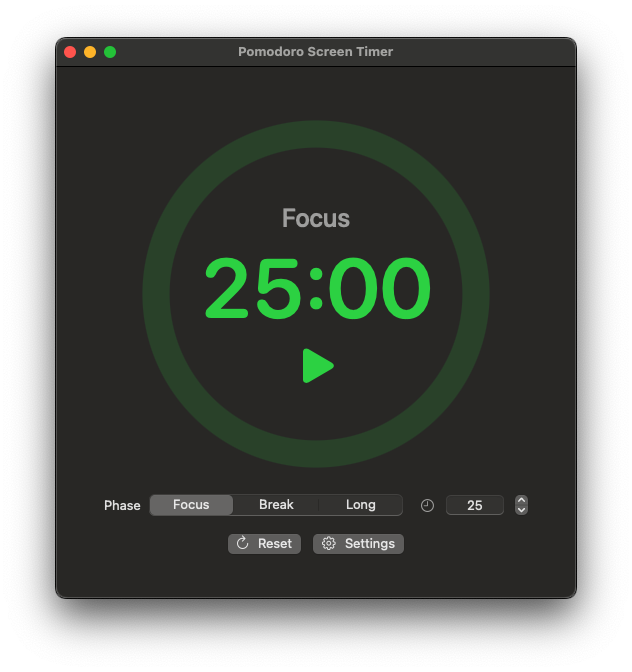
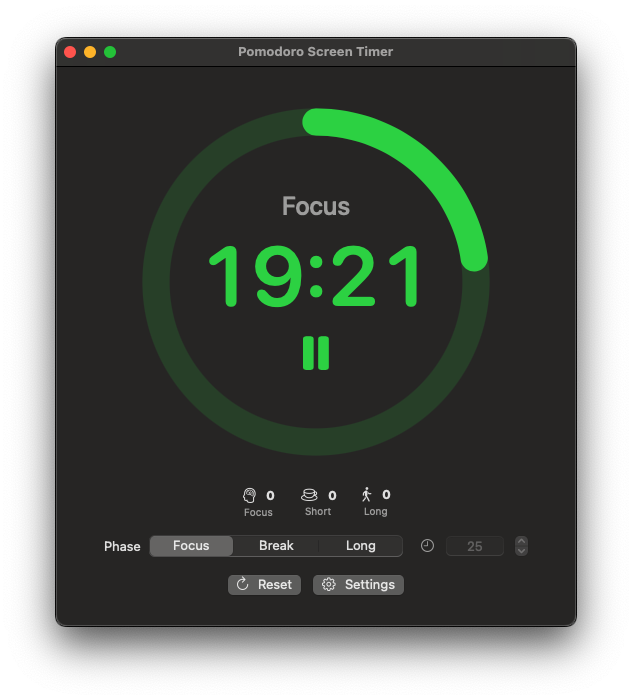
update readme with voice alert feature and screenshots
- Updated readme with new features
- Added debug flag to build script, print out app location
- Added updated screenshots

diff --git a/README.md b/README.md
@@ -7,7 +7,7 @@
 <p align="center">
   ⏳ A beautiful, native macOS Pomodoro timer with full-screen visual disruptions
 </p>
-The main feature of this pomodoro timer is that it creates a **visual disruption** for those who have become deaf to the monotony of alarms. The entire screen of all connected monitors will display an overlay to disrupt your current work.
+The main feature of this pomodoro timer is that it creates a **visual disruption** for those who have become deaf to the monotony of alarms. All monitors will display an overlay to disrupt your current work.
 
 ## Table of Contents
 - [Screenshots](#screenshots)
@@ -22,9 +22,12 @@ The main feature of this pomodoro timer is that it creates a **visual disruption
 
 ## Screenshots
 <p align="center">
-  <img src="./docs/screenshots/main_view.png" alt="Pomodoro Screen Timer Main View"/>
-  <img src="./docs/screenshots/menu_bar_menu.png" alt="Pomodoro Screen Timer Menu Bar"/>
-  <img src="./docs/screenshots/settings.png" alt="Pomodoro Screen Timer Settings"/>
+  <img src="./docs/screenshots/main_view.png" alt="Pomodoro Screen Timer Main View"/><br/>
+  <img src="./docs/screenshots/menu_bar_menu.png" alt="Pomodoro Screen Timer Menu Bar"/><br/>
+  <img src="./docs/screenshots/settings_timer.png" alt="Pomodoro Screen Timer Timer Settings"/><br/>
+  <img src="./docs/screenshots/settings_overlay.png" alt="Pomodoro Screen Timer Overlay Settings"/><br/>
+  <img src="./docs/screenshots/settings_sound.png" alt="Pomodoro Screen Timer Sound Settings"/><br/>
+  <img src="./docs/screenshots/overlay_focus.png" alt="Pomodoro Screen Timer Focus"/>
 </p>
 
 
@@ -42,17 +45,20 @@ The main feature of this pomodoro timer is that it creates a **visual disruption
 - **Visual Progress Ring**: Modern circular progress indicator with phase-specific colors.
 - **Auto-Cycling**: Automatically transitions between focus and break sessions.
 - **Manual Control**: Option to manually start each session.
+- **Cycle Count Tracking**: Displays the number of focus and break sessions since the app has been up.
 
 ### Visual & Audio
 - **Multi-monitor Full-Screen Overlays**: Customizable break and focus overlays with images to visually disrupt your current work to signal a transition to a break or focus session.
 - **Phase-Specific Colors**: 🟢 Green for focus, 🔴 Red for breaks.
 - **Custom Sounds**: Set different alarm sounds for focus and break transitions.
+- **Voice Alert**: Voice alerts via speaking the message on the overlay for focus and break transitions. (optional)
 
 ### Customization
 - **Flexible Timing**: Adjustable focus (default 25min), short break (5min), and long break (15min) durations.
 - **Long Break Cycles**: Configure how many focus sessions before a long break.
 - **Overlay Customization**: Custom images, colors, and display durations for notification overlays.
 - **Sound Options**: Choose from system sounds or custom audio files.
+- **Voice Options**: Choose from system voices to read out the message on the overlay. 
 - **Startup Options**: Launch at login.
 
 ### Developer Features
@@ -68,7 +74,7 @@ The main feature of this pomodoro timer is that it creates a **visual disruption
 
 ## Installation
 
-### Option 1: Build from Source
+### Build from Source
 
 1. **Clone the repository**:
    ```bash
@@ -82,10 +88,23 @@ The main feature of this pomodoro timer is that it creates a **visual disruption
    ./build_and_run.sh
    ```
 
-3. **Or build manually with Xcode**:
+    **Or build manually with Xcode**:
    - Open `Pomodoro Screen Timer.xcodeproj` in Xcode.
    - Select the "Pomodoro Screen Timer" scheme.
+   - Selet `My Mac` as the target device.
    - Build and run (⌘R).
+
+3. **Copy built app to `/Applications` folder**
+   1. Go into the build folder 
+
+        **Via build script**
+        - `<project root>/build/Build`.
+
+        **Via Xcode**
+       - Go into the build folder via `Product -> Show Build Folder in Finder` in Xcode.
+
+   2. Copy the `"Products/Debug/Pomodoro Screen Timer.app"` or `"Products/Release/Pomodoro Screen Timer.app"` to `/Applications`.
+
 
 ### Build Script Options
 
@@ -101,6 +120,7 @@ The included `build_and_run.sh` script provides several convenient options:
 ```
 
 ## Usage
+
 
 ### Getting Started
 
@@ -136,31 +156,58 @@ The menu bar provides quick access to:
 ## Architecture
 
 The app follows a clean, modular architecture:
-
 ```
-Models/
-├── Phase.swift          # Phase enum with colors and properties
-├── TimerModel.swift     # Core timer logic and state management
-├── SettingsStore.swift  # User preferences and configuration
-└── AlarmPlayer.swift    # Audio playback for notifications
+Core
+├── AlarmHandle.swift
+├── OverlayConfig.swift
+├── OverlayController.swift
+├── Phase.swift
+├── SettingsStore.swift
+└── TimerModel.swift
 
-Views/
-├── MainView.swift       # Main timer interface
-├── SettingsView.swift   # Settings configuration
-├── ProgressRingView.swift # Circular progress indicator
-├── OverlayView.swift    # Full-screen overlays
-└── MenuBar/             # Menu bar components
+Extensions
+└── Comparable+Extensions.swift
 
-Controllers/
-└── OverlayController.swift # Overlay logic
+Services
+├── AlarmPlayer.swift
+├── AppLifecycle.swift
+├── LoginItemManager.swift
+├── Persistence.swift
+├── SpeechSynthesizer.swift
+└── SystemSounds.swift
 
-Utils/
-├── AppLifecycle.swift   # App lifecycle managemen
-└── Various helpers      # File selection, system integration
+Utils
+├── FileSelectionHelper.swift
+├── OverlayNSWindow.swift
+└── WindowBehaviorConfigurator.swift
+
+Views
+├── ContentView.swift
+├── MainView.swift
+├── MenuBar
+│   ├── MenuBarStatusLabelView.swift
+│   ├── MenuBarView.swift
+│   └── StatusImage.swift
+├── OverlayView.swift
+├── ProgressRingView.swift
+└── Settings
+    ├── Components
+    │   ├── AlarmTestButton.swift
+    │   ├── DurationRow.swift
+    │   ├── ImagePickerRow.swift
+    │   ├── OverlaySection.swift
+    │   ├── SettingsGridRow.swift
+    │   ├── SoundPickerSection.swift
+    │   └── VoicePicker.swift
+    ├── SettingsView.swift
+    └── Tabs
+        ├── OverlaySettingsTab.swift
+        ├── SoundSettingsTab.swift
+        ├── StartupSettingsTab.swift
+        └── TimerSettingsTab.swift
 ```
 
 ### Key Components
-
 - **Phase Model**: Centralized phase management with consistent colors and properties.
 - **Timer Model**: Observable timer state with automatic phase transitions.
 - **Settings Store**: Persistent user preferences with real-time updates.
